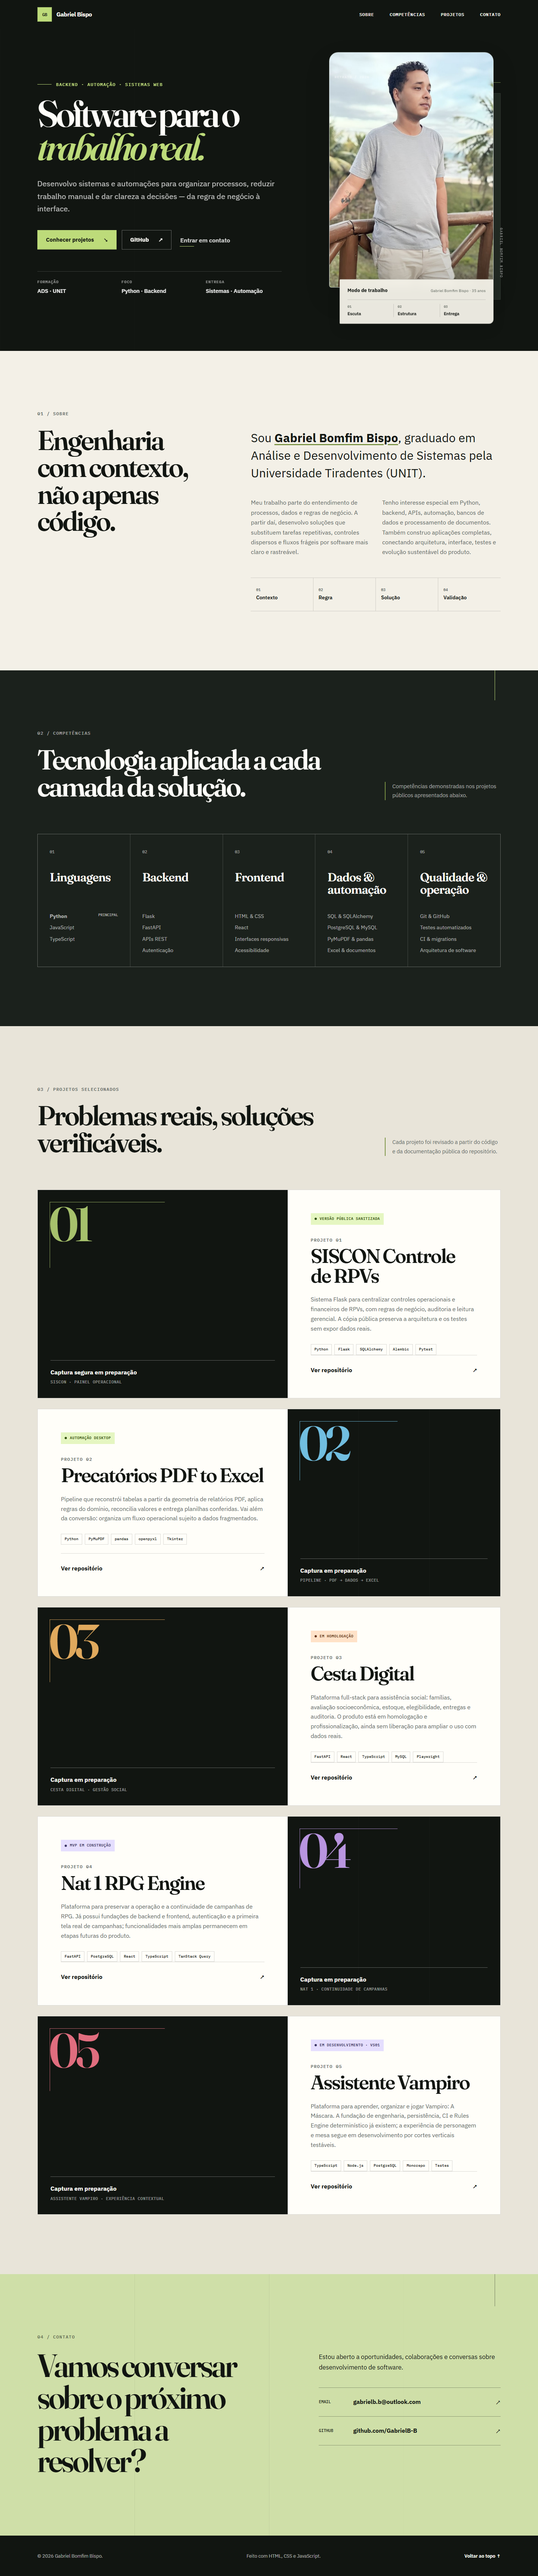
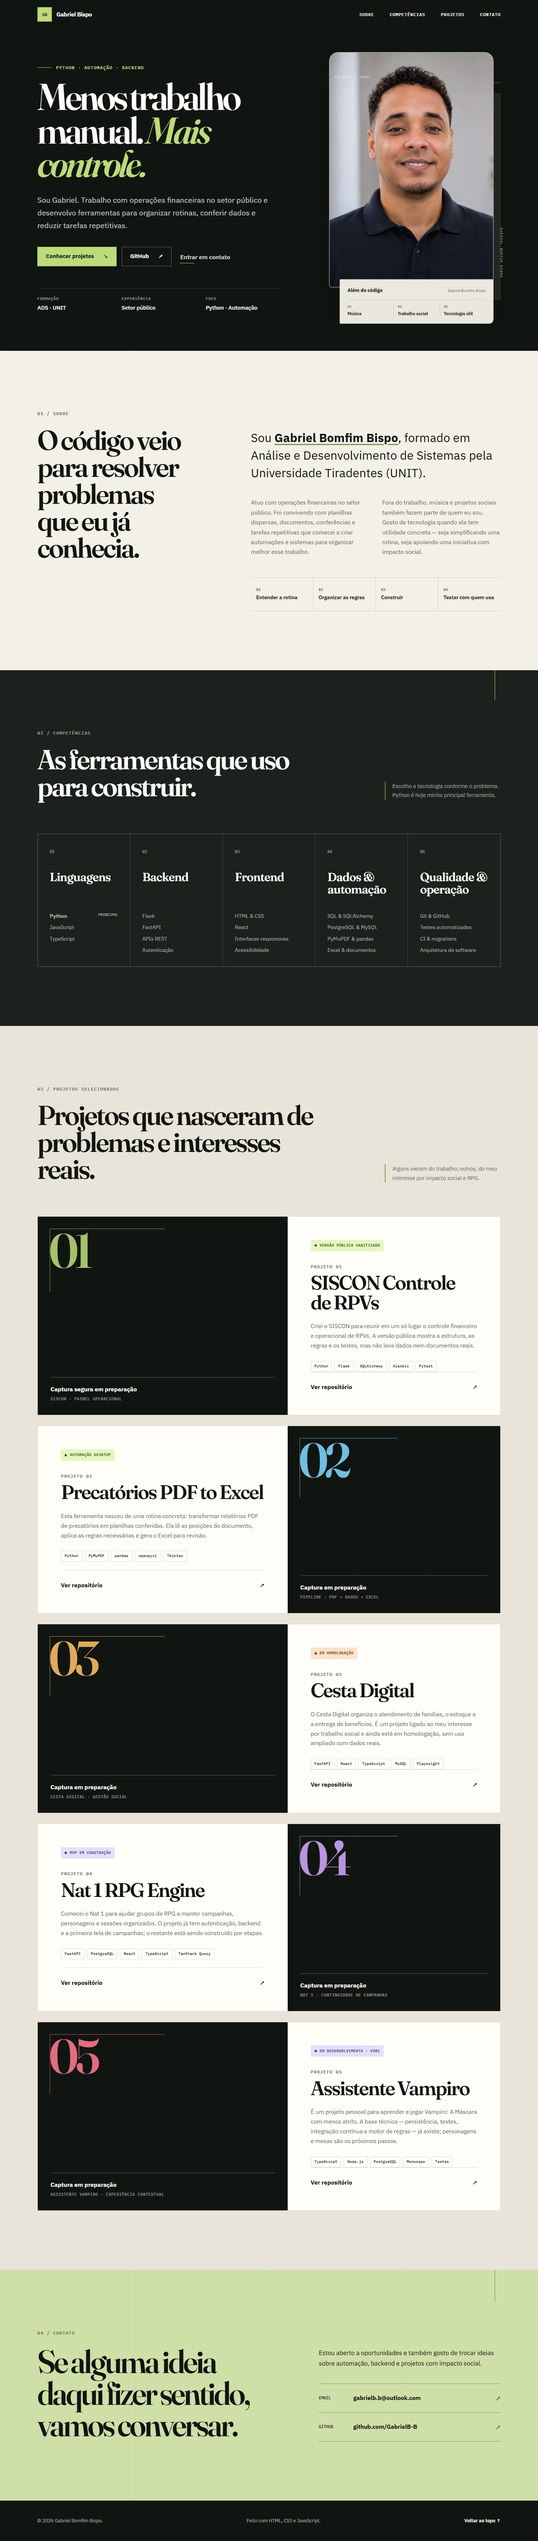
refactor: bring personal voice to portfolio

diff --git a/index.html b/index.html
@@ -5,21 +5,21 @@
     <meta name="viewport" content="width=device-width, initial-scale=1">
     <meta name="theme-color" content="#111713">
     <meta name="color-scheme" content="light dark">
-    <meta name="description" content="Portfólio de Gabriel Bomfim Bispo, desenvolvedor de software com foco em Python, backend, automação, aplicações web e soluções para processos reais.">
+    <meta name="description" content="Portfólio de Gabriel Bomfim Bispo: projetos em Python, backend e automação nascidos da experiência com operações financeiras e processos reais.">
     <meta name="author" content="Gabriel Bomfim Bispo">
 
     <meta property="og:type" content="website">
     <meta property="og:locale" content="pt_BR">
     <meta property="og:title" content="Gabriel Bomfim Bispo | Desenvolvedor de software">
-    <meta property="og:description" content="Backend, automação e sistemas completos construídos para resolver necessidades operacionais reais.">
+    <meta property="og:description" content="Projetos em Python, backend e automação criados a partir de rotinas e interesses reais.">
     <meta property="og:url" content="https://gabrielb-b.github.io/meu-portfolio/">
-    <meta property="og:image" content="https://gabrielb-b.github.io/meu-portfolio/imagens/gabriel.png">
+    <meta property="og:image" content="https://gabrielb-b.github.io/meu-portfolio/imagens/retrato-profissional.jpg">
     <meta property="og:image:alt" content="Retrato de Gabriel Bomfim Bispo">
 
     <meta name="twitter:card" content="summary">
     <meta name="twitter:title" content="Gabriel Bomfim Bispo | Desenvolvedor de software">
-    <meta name="twitter:description" content="Backend, automação e sistemas completos para problemas reais.">
-    <meta name="twitter:image" content="https://gabrielb-b.github.io/meu-portfolio/imagens/gabriel.png">
+    <meta name="twitter:description" content="Projetos em Python, backend e automação criados a partir de rotinas e interesses reais.">
+    <meta name="twitter:image" content="https://gabrielb-b.github.io/meu-portfolio/imagens/retrato-profissional.jpg">
 
     <title>Gabriel Bomfim Bispo | Desenvolvedor de software</title>
     <link rel="canonical" href="https://gabrielb-b.github.io/meu-portfolio/">
@@ -60,10 +60,10 @@
             <div class="hero-grid-pattern" aria-hidden="true"></div>
             <div class="container hero-layout">
                 <div class="hero-copy" data-reveal>
-                    <p class="eyebrow"><span>Backend · automação · sistemas web</span></p>
-                    <h1 id="hero-title">Software para o <em>trabalho real.</em></h1>
+                    <p class="eyebrow"><span>Python · automação · backend</span></p>
+                    <h1 id="hero-title">Menos trabalho manual. <em>Mais controle.</em></h1>
                     <p class="hero-lead">
-                        Desenvolvo sistemas e automações para organizar processos, reduzir trabalho manual e dar clareza a decisões — da regra de negócio à interface.
+                        Sou Gabriel. Trabalho com operações financeiras no setor público e desenvolvo ferramentas para organizar rotinas, conferir dados e reduzir tarefas repetitivas.
                     </p>
 
                     <div class="hero-actions" role="group" aria-label="Ações principais">
@@ -84,12 +84,12 @@
                             <dd>ADS · UNIT</dd>
                         </div>
                         <div>
-                            <dt>Foco</dt>
-                            <dd>Python · Backend</dd>
+                            <dt>Experiência</dt>
+                            <dd>Setor público</dd>
                         </div>
                         <div>
-                            <dt>Entrega</dt>
-                            <dd>Sistemas · Automação</dd>
+                            <dt>Foco</dt>
+                            <dd>Python · Automação</dd>
                         </div>
                     </dl>
                 </div>
@@ -99,17 +99,17 @@
                     <span class="portrait-register portrait-register-side" aria-hidden="true">Gabriel Bomfim Bispo</span>
                     <figure class="portrait-frame">
                         <div class="portrait-media">
-                            <img src="imagens/soueu.jpeg" alt="Gabriel Bomfim Bispo em ambiente externo" width="709" height="1260" fetchpriority="high">
+                            <img src="imagens/retrato-profissional.jpg" alt="Retrato profissional de Gabriel Bomfim Bispo em escritório" width="1254" height="1254" fetchpriority="high">
                         </div>
                         <figcaption class="portrait-caption">
                             <div class="portrait-caption-heading">
-                                <span>Modo de trabalho</span>
-                                <small>Gabriel Bomfim Bispo · 35 anos</small>
+                                <span>Além do código</span>
+                                <small>Gabriel Bomfim Bispo</small>
                             </div>
-                            <ol aria-label="Etapas do modo de trabalho">
-                                <li><span>01</span>Escuta</li>
-                                <li><span>02</span>Estrutura</li>
-                                <li><span>03</span>Entrega</li>
+                            <ol aria-label="Interesses pessoais de Gabriel">
+                                <li><span>01</span>Música</li>
+                                <li><span>02</span>Trabalho social</li>
+                                <li><span>03</span>Tecnologia útil</li>
                             </ol>
                         </figcaption>
                     </figure>
@@ -121,27 +121,27 @@
             <div class="container section-layout">
                 <header class="section-heading" data-reveal>
                     <p class="section-index">01 / Sobre</p>
-                    <h2 id="about-title">Engenharia com contexto, não apenas código.</h2>
+                    <h2 id="about-title">O código veio para resolver problemas que eu já conhecia.</h2>
                 </header>
 
                 <div class="about-content" data-reveal data-reveal-delay="1">
                     <p class="about-intro">
-                        Sou <strong>Gabriel Bomfim Bispo</strong>, graduado em Análise e Desenvolvimento de Sistemas pela Universidade Tiradentes (UNIT).
+                        Sou <strong>Gabriel Bomfim Bispo</strong>, formado em Análise e Desenvolvimento de Sistemas pela Universidade Tiradentes (UNIT).
                     </p>
                     <div class="about-columns">
                         <p>
-                            Meu trabalho parte do entendimento de processos, dados e regras de negócio. A partir daí, desenvolvo soluções que substituem tarefas repetitivas, controles dispersos e fluxos frágeis por software mais claro e rastreável.
+                            Atuo com operações financeiras no setor público. Foi convivendo com planilhas dispersas, documentos, conferências e tarefas repetitivas que comecei a criar automações e sistemas para organizar melhor esse trabalho.
                         </p>
                         <p>
-                            Tenho interesse especial em Python, backend, APIs, automação, bancos de dados e processamento de documentos. Também construo aplicações completas, conectando arquitetura, interface, testes e evolução sustentável do produto.
+                            Fora do trabalho, música e projetos sociais também fazem parte de quem eu sou. Gosto de tecnologia quando ela tem utilidade concreta — seja simplificando uma rotina, seja apoiando uma iniciativa com impacto social.
                         </p>
                     </div>
 
                     <ol class="process-strip" aria-label="Forma de trabalho">
-                        <li><span>01</span> Contexto</li>
-                        <li><span>02</span> Regra</li>
-                        <li><span>03</span> Solução</li>
-                        <li><span>04</span> Validação</li>
+                        <li><span>01</span> Entender a rotina</li>
+                        <li><span>02</span> Organizar as regras</li>
+                        <li><span>03</span> Construir</li>
+                        <li><span>04</span> Testar com quem usa</li>
                     </ol>
                 </div>
             </div>
@@ -152,9 +152,9 @@
                 <header class="section-heading section-heading-row" data-reveal>
                     <div>
                         <p class="section-index">02 / Competências</p>
-                        <h2 id="skills-title">Tecnologia aplicada a cada camada da solução.</h2>
+                        <h2 id="skills-title">As ferramentas que uso para construir.</h2>
                     </div>
-                    <p class="section-aside">Competências demonstradas nos projetos públicos apresentados abaixo.</p>
+                    <p class="section-aside">Escolho a tecnologia conforme o problema. Python é hoje minha principal ferramenta.</p>
                 </header>
 
                 <div class="skill-grid">
@@ -216,9 +216,9 @@
                 <header class="section-heading section-heading-row" data-reveal>
                     <div>
                         <p class="section-index">03 / Projetos selecionados</p>
-                        <h2 id="projects-title">Problemas reais, soluções verificáveis.</h2>
+                        <h2 id="projects-title">Projetos que nasceram de problemas e interesses reais.</h2>
                     </div>
-                    <p class="section-aside">Cada projeto foi revisado a partir do código e da documentação pública do repositório.</p>
+                    <p class="section-aside">Alguns vieram do trabalho; outros, do meu interesse por impacto social e RPG.</p>
                 </header>
 
                 <div class="project-list">
@@ -240,7 +240,7 @@
                             <p class="project-number">Projeto 01</p>
                             <h3>SISCON Controle de RPVs</h3>
                             <p class="project-description">
-                                Sistema Flask para centralizar controles operacionais e financeiros de RPVs, com regras de negócio, auditoria e leitura gerencial. A cópia pública preserva a arquitetura e os testes sem expor dados reais.
+                                Criei o SISCON para reunir em um só lugar o controle financeiro e operacional de RPVs. A versão pública mostra a estrutura, as regras e os testes, mas não leva dados nem documentos reais.
                             </p>
                             <ul class="project-tags" aria-label="Tecnologias">
                                 <li>Python</li>
@@ -273,7 +273,7 @@
                             <p class="project-number">Projeto 02</p>
                             <h3>Precatórios PDF to Excel</h3>
                             <p class="project-description">
-                                Pipeline que reconstrói tabelas a partir da geometria de relatórios PDF, aplica regras do domínio, reconcilia valores e entrega planilhas conferidas. Vai além da conversão: organiza um fluxo operacional sujeito a dados fragmentados.
+                                Esta ferramenta nasceu de uma rotina concreta: transformar relatórios PDF de precatórios em planilhas conferidas. Ela lê as posições do documento, aplica as regras necessárias e gera o Excel para revisão.
                             </p>
                             <ul class="project-tags" aria-label="Tecnologias">
                                 <li>Python</li>
@@ -306,7 +306,7 @@
                             <p class="project-number">Projeto 03</p>
                             <h3>Cesta Digital</h3>
                             <p class="project-description">
-                                Plataforma full-stack para assistência social: famílias, avaliação socioeconômica, estoque, elegibilidade, entregas e auditoria. O produto está em homologação e profissionalização, ainda sem liberação para ampliar o uso com dados reais.
+                                O Cesta Digital organiza o atendimento de famílias, o estoque e a entrega de benefícios. É um projeto ligado ao meu interesse por trabalho social e ainda está em homologação, sem uso ampliado com dados reais.
                             </p>
                             <ul class="project-tags" aria-label="Tecnologias">
                                 <li>FastAPI</li>
@@ -339,7 +339,7 @@
                             <p class="project-number">Projeto 04</p>
                             <h3>Nat 1 RPG Engine</h3>
                             <p class="project-description">
-                                Plataforma para preservar a operação e a continuidade de campanhas de RPG. Já possui fundações de backend e frontend, autenticação e a primeira tela real de campanhas; funcionalidades mais amplas permanecem em etapas futuras do produto.
+                                Comecei o Nat 1 para ajudar grupos de RPG a manter campanhas, personagens e sessões organizados. O projeto já tem autenticação, backend e a primeira tela de campanhas; o restante está sendo construído por etapas.
                             </p>
                             <ul class="project-tags" aria-label="Tecnologias">
                                 <li>FastAPI</li>
@@ -372,7 +372,7 @@
                             <p class="project-number">Projeto 05</p>
                             <h3>Assistente Vampiro</h3>
                             <p class="project-description">
-                                Plataforma para aprender, organizar e jogar Vampiro: A Máscara. A fundação de engenharia, persistência, CI e Rules Engine determinístico já existem; a experiência de personagem e mesa segue em desenvolvimento por cortes verticais testáveis.
+                                É um projeto pessoal para aprender e jogar Vampiro: A Máscara com menos atrito. A base técnica — persistência, testes, integração contínua e motor de regras — já existe; personagens e mesas são os próximos passos.
                             </p>
                             <ul class="project-tags" aria-label="Tecnologias">
                                 <li>TypeScript</li>
@@ -395,10 +395,10 @@
             <div class="container contact-layout">
                 <div data-reveal>
                     <p class="section-index">04 / Contato</p>
-                    <h2 id="contact-title">Vamos conversar sobre o próximo problema a resolver?</h2>
+                    <h2 id="contact-title">Se alguma ideia daqui fizer sentido, vamos conversar.</h2>
                 </div>
                 <div class="contact-panel" data-reveal data-reveal-delay="1">
-                    <p>Estou aberto a oportunidades, colaborações e conversas sobre desenvolvimento de software.</p>
+                    <p>Estou aberto a oportunidades e também gosto de trocar ideias sobre automação, backend e projetos com impacto social.</p>
                     <a class="contact-link" href="mailto:gabrielb.b@outlook.com">
                         <span>Email</span>
                         <strong>gabrielb.b@outlook.com</strong>

diff --git a/style.css b/style.css
@@ -500,8 +500,8 @@ ol {
     width: 100%;
     height: 100%;
     object-fit: cover;
-    object-position: 50% 38%;
-    filter: saturate(0.78) contrast(0.98) brightness(1.02);
+    object-position: 50% 50%;
+    filter: saturate(0.92) contrast(0.98) brightness(0.99);
     transform: scale(1.01);
 }
 
